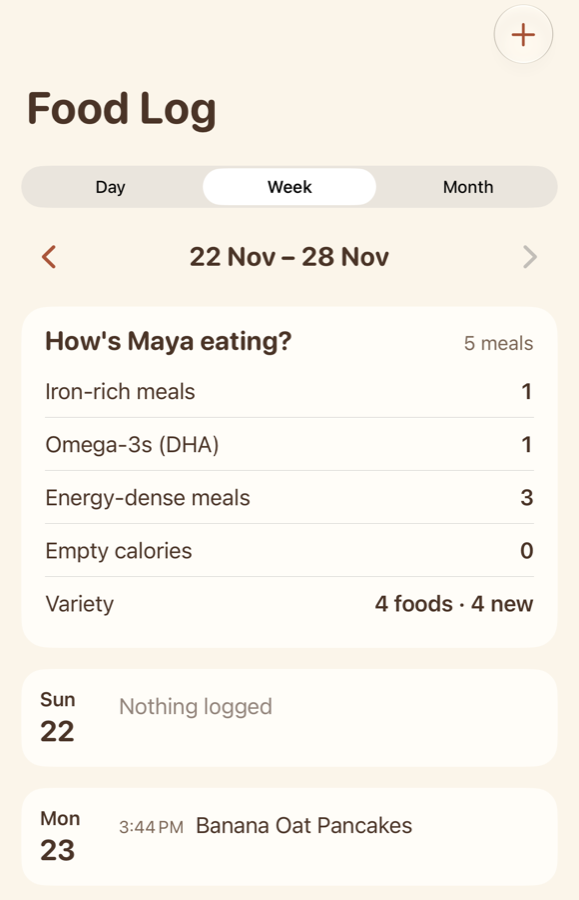
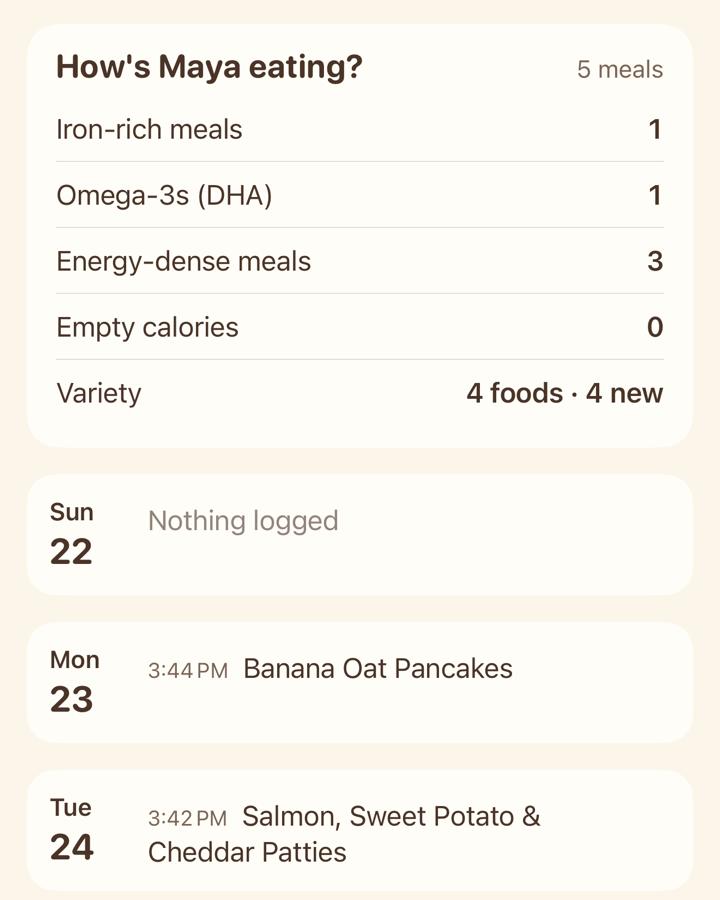
Five feature rows: recipes, food log, Community, weekly summary, adding recipes

diff --git a/index.html b/index.html
@@ -30,24 +30,38 @@
 
     <section class="features" aria-label="What Bean does">
       <div class="feature">
-        <div class="shot"><img src="images/food-log.png" alt="Bean's Food Log showing today's meals, each with a time, how much was eaten and a face for how it went" width="580" height="900" loading="lazy"></div>
+        <div class="shot"><img src="images/recipes.png" alt="Bean's recipe list showing allergens, cooking times and when each recipe was last eaten" width="579" height="900" loading="lazy"></div>
+        <div class="feature-text">
+          <h2>All your recipes in one place</h2>
+          <p>Every recipe you cook for your baby, with allergens, cooking times and when they last had it.</p>
+        </div>
+      </div>
+      <div class="feature">
+        <div class="shot"><img src="images/food-log.png" alt="Bean's Food Log showing today's meals, each with a time, how much was eaten and a face for how it went" width="579" height="900" loading="lazy"></div>
         <div class="feature-text">
           <h2>Remember what they ate</h2>
           <p>Log a meal in one tap, with how much they ate and a face for how it went.</p>
         </div>
       </div>
       <div class="feature">
-        <div class="shot"><img src="images/weekly-summary.png" alt="Bean's weekly summary counting iron-rich meals, omega-3s and how many different foods were eaten" width="580" height="900" loading="lazy"></div>
+        <div class="shot"><img src="images/community.png" alt="Bean's Community tab with starter recipes like Banana Oat Pancakes, ready to save" width="579" height="900" loading="lazy"></div>
+        <div class="feature-text">
+          <h2>Discover new recipes</h2>
+          <p>Browse starter recipes from the Bean kitchen and save the ones you like to your own collection.</p>
+        </div>
+      </div>
+      <div class="feature">
+        <div class="shot"><img src="images/weekly-summary.png" alt="Bean's weekly summary counting iron-rich meals, omega-3s and how many different foods were eaten" width="579" height="900" loading="lazy"></div>
         <div class="feature-text">
           <h2>Keep the good stuff coming</h2>
           <p>See iron-rich meals, omega-3s and variety for the week at a glance. No scores, no guilt.</p>
         </div>
       </div>
       <div class="feature">
-        <div class="shot"><img src="images/recipes.png" alt="Bean's recipe list with allergens, cooking times and when each recipe was last eaten" width="580" height="900" loading="lazy"></div>
+        <div class="shot"><img src="images/add-recipes.png" alt="Bean's Import Recipe screen with a recipe pasted in, ready to read" width="579" height="900" loading="lazy"></div>
         <div class="feature-text">
-          <h2>All your recipes in one place</h2>
-          <p>Add recipes from text or a photo, cook step by step, and see which ones your baby loved.</p>
+          <h2>Add recipes your way</h2>
+          <p>Type one in, paste one from a blog or a message, or snap a photo of a cookbook page. Bean reads it on your iPhone.</p>
         </div>
       </div>
     </section>

diff --git a/style.css b/style.css
@@ -110,46 +110,62 @@ img { max-width: 100%; }
   font-size: 15px;
 }
 
-/* Home: three promises */
+/* Home: features, one row each, screenshot and text side by side (alternating) */
 .features {
-  display: grid;
-  grid-template-columns: repeat(3, minmax(0, 1fr));
-  gap: 16px;
+  display: flex;
+  flex-direction: column;
+  gap: 20px;
   padding-bottom: 72px;
 }
 .feature {
-  display: flex;
-  flex-direction: column;
+  display: grid;
+  grid-template-columns: minmax(0, 1fr) minmax(0, 1fr);
+  align-items: center;
   background: var(--card);
-  border-radius: 18px;
+  border-radius: 22px;
   overflow: hidden;
   box-shadow: var(--shadow);
   border: 1px solid var(--line);
 }
+.feature:nth-child(even) .shot { order: 2; }
 /* App screenshot, shown as the top of a phone screen rising from a tinted panel */
 .shot {
+  align-self: stretch;
+  display: flex;
+  align-items: flex-end;
+  justify-content: center;
   background: var(--panel);
-  padding: 28px 28px 0;
+  padding: 40px 40px 0;
 }
 .shot img {
   display: block;
   width: 100%;
-  max-width: 250px;
+  max-width: 270px;
   height: auto;
   aspect-ratio: 4 / 5;
   object-fit: cover;
   object-position: top;
-  margin: 0 auto;
-  border-radius: 22px 22px 0 0;
+  border-radius: 24px 24px 0 0;
   border: 1px solid var(--line);
   border-bottom: 0;
   box-shadow: 0 -2px 18px rgba(74, 52, 39, 0.10);
 }
-.feature-text { padding: 22px 24px 26px; }
-.feature h2 { font-size: 19px; margin: 0 0 8px; line-height: 1.3; }
-.feature p { margin: 0; color: var(--soft); font-size: 16px; }
+.feature-text { padding: 40px 48px; min-width: 0; }
+.feature h2 {
+  font-family: var(--font-display);
+  font-size: clamp(22px, 3vw, 28px);
+  line-height: 1.2;
+  letter-spacing: -0.01em;
+  margin: 0 0 12px;
+  text-wrap: balance;
+}
+.feature p { margin: 0; color: var(--soft); font-size: 18px; max-width: 36ch; }
 @media (max-width: 760px) {
-  .features { grid-template-columns: 1fr; }
+  .feature { grid-template-columns: 1fr; }
+  .feature:nth-child(even) .shot { order: 0; }
+  .shot { padding: 28px 28px 0; }
+  .feature-text { padding: 22px 24px 26px; }
+  .feature p { font-size: 16px; }
   .hero { padding-block: 48px 40px; }
 }
 
